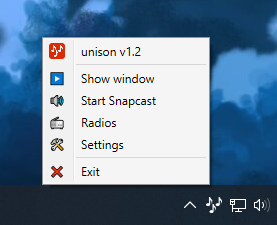
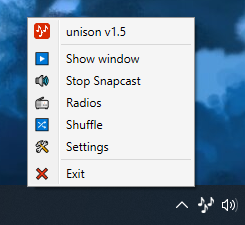
Update README

diff --git a/README.md b/README.md
@@ -7,7 +7,8 @@
 * lightweight window that can be toggled with shortcuts
 * music control through rebindable shortcuts
 * [Snapcast](https://github.com/badaix/snapcast) integration
-* Radio stations
+* radio stations
+* basic shuffle system
 
 ## Features
 
@@ -33,11 +34,20 @@ Through [Radio-Browser](https://www.radio-browser.info), a community database, y
 
 ![Radio stations](Screenshots/screen4.png)
 
-## Planned features
+### Shuffle system
 
-* A complete shuffle system based on set criteria, aka a smart playlist.
-* Playlist, queue and library management. I use other software to do it, but I will implement them at some point.
+A shuffle system is available, allowing you to only use unison as a (very basic) music manager. You can use filters to have a tailored shuffle experience.
+
+![Shuffle system](Screenshots/screen5.png)
 
 ## Translations
 
 unison is translated in English, French and Spanish. You can contribute if you want!
+
+## The future
+
+This project started as a simple daemon to control my music with shortcuts, and a Snapcast player. With time, I added a few useful features, while learning C# and WPF. I wanted to make a complete implementation of MPD features (library, playlist, queue management, etc). However, this will probably not happen. Indeed, I have been waiting a few years for Microsoft to settle on a modern implementation of its user interface framework. But it is still not there, and I do not want to spend time for a technology that might die too quickly. There's no coherence in Windows' interfaces, and it is not really motivating. I also want to be able to play Snapcast from iOS, so I think I will most likely invest (natively) my time in this platform for the foreseeable future.
+
+If I were to continue, the first thing to do would be to make a single window interface, by making a real MVVP implementation, and not one depending on windows like I did here, by iterating on a single program that has become a bit too big to not separate logic from visual.
+
+I still plan on maintaining this app in a working state, as its working great as is. But I do not intend, for the time being at least, to make dramatic changes as I would have liked to.
